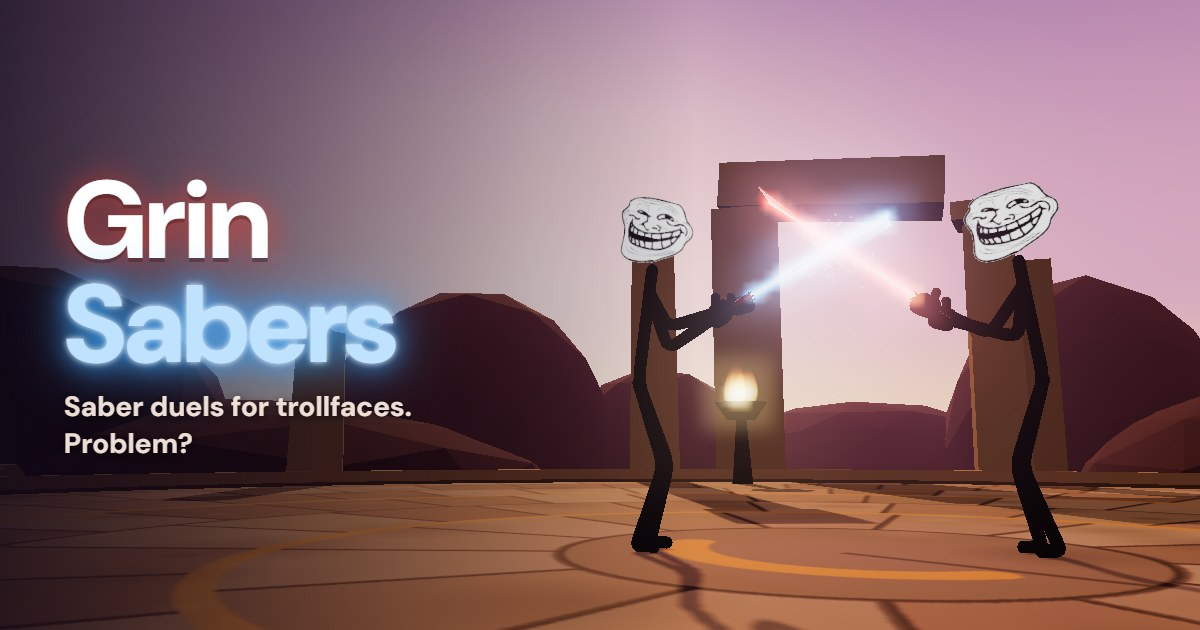
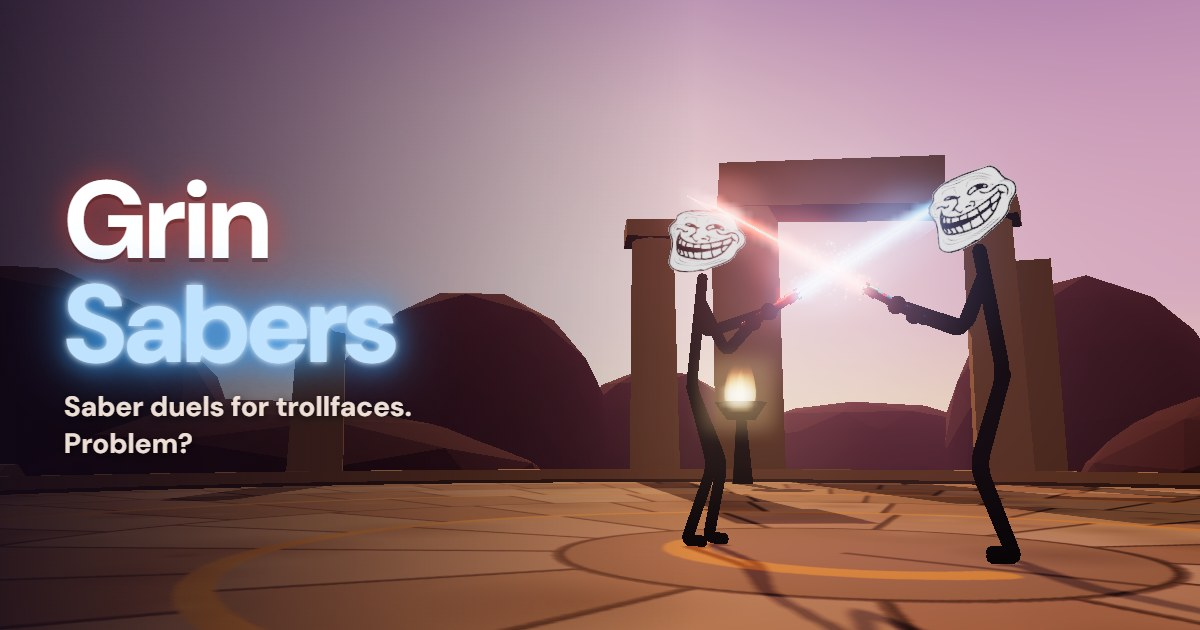
Grin Sabers: hold the saber properly
- Sword fists: round ink fists centred on the hilt, right under the emitter,
  left a fist lower; the rig's flat mitts (made for open hands) hide while a
  saber is held. The blade used to start at the wrist joint, beside the hand.
- Hilt drawn at 1.3x so the steel, emitter and pommel show round two fists.
- Ready stance: both fists in close at the belly on the centre line, blade
  up and forward (was off to the right, arms locked straight out).
- High guard flat over the head; overhead and side windups keep the fists
  above or beside the head, never over the trollface.
- Key art re-rendered with the new grip. Tags -> gs2 (game.js gs3).

Changed region(s): [[0.4933, 0.2413, 1.0, 1.0]]

diff --git a/assets/games/grin-sabers/combat/fighter.js b/assets/games/grin-sabers/combat/fighter.js
@@ -19,15 +19,15 @@ import * as THREE from "three";
 import {
   buildHumanoid, poseHumanoid, reachHand, setHandPose, aimRig, flinchRig,
   gaitPhaseRate, poseDeath, DEATH_TIME,
-} from "../../troll-ops/characters/character.js?v=gs1";
-import { buildSaber, SaberTrail, EMIT_Z } from "../view/saber.js?v=gs1";
-import { FORMS, SWING_BASE } from "./forms.js?v=gs1";
+} from "../../troll-ops/characters/character.js?v=gs2";
+import { buildSaber, SaberTrail, EMIT_Z } from "../view/saber.js?v=gs2";
+import { FORMS, SWING_BASE } from "./forms.js?v=gs2";
 import {
   READY, GUARDS, STAGGER, CLASH, SWINGS, newPose, copyPose, lerpPose, strikePose, smooth, zoneFromAim,
-} from "./swings.js?v=gs1";
+} from "./swings.js?v=gs2";
 
 export const REACH = 1.75;          // chest to chest, the blade can reach about this far
-const HAND_GAP = 0.11;              // right hand to left hand along the hilt
+const HAND_GAP = 0.1;               // right fist to left fist along the hilt
 const BP_REGEN = 14;                // block points a second, standing/walking/guarding
 const DODGE_COST = 12, FEINT_COST = 6;
 const GRAVITY = 13, JUMP_V = 6.2;
@@ -57,6 +57,22 @@ function faceMaterialFlat(lit) {
   if (_flatFace) return _flatFace;
   _flatFace = new THREE.MeshBasicMaterial({ map: lit.map, color: 0xeeeeee, transparent: true, alphaTest: 0.3, side: THREE.DoubleSide });
   return _flatFace;
+}
+
+/* Sword fists. The rig's mitts are flat cut-outs laid along the forearm, made
+   for open hands and gestures; they can't close round a handle. While a
+   saber is held they hide and these take over: round ink fists centred ON
+   the hilt (the arm's line ends inside them), the right under the emitter,
+   the left a fist lower, so the steel shows between and round them. */
+const FIST_GEO = new THREE.SphereGeometry(1, 18, 14);
+const FIST_MAT = new THREE.MeshBasicMaterial({ color: 0x050505 });
+function makeFist(scene) {
+  const m = new THREE.Mesh(FIST_GEO, FIST_MAT);
+  m.scale.set(0.05, 0.047, 0.043);   // wide across the hilt, short along it
+  m.castShadow = true;
+  m.visible = false;
+  scene.add(m);
+  return m;
 }
 
 function nameTag(text, colour) {
@@ -98,6 +114,7 @@ export class Fighter {
     this.saber = buildSaber(colour, { light });
     scene.add(this.saber.group);
     this.trail = new SaberTrail(scene, colour);
+    this.fists = [makeFist(scene), makeFist(scene)];
 
     this.pos = new THREE.Vector3();
     this.vel = new THREE.Vector3();
@@ -441,6 +458,7 @@ export class Fighter {
     rig.root.position.copy(this.pos);
 
     if (this.state === "ko") {
+      this.showSwordFists(false);
       poseDeath(rig, Math.min(1, this.koT / DEATH_TIME));
       this.placeSaberOnBody(dt, now, false);
       this.tag.visible = false;
@@ -479,11 +497,11 @@ export class Fighter {
       _w.copy(g).addScaledVector(d, -HAND_GAP);
       _pole.copy(POLE_L);
       reachHand(rig, -1, _w, _pole);
-      setHandPose(rig, 1, "fist");
-      setHandPose(rig, -1, "fist");
+      this.showSwordFists(true);
       rig.body.update();
       this.placeSaberInHands();
     } else {
+      this.showSwordFists(false);
       setHandPose(rig, 1, "open");
       setHandPose(rig, -1, "open");
       rig.body.update();
@@ -502,13 +520,25 @@ export class Fighter {
     this.saber.update(dt, now);
   }
 
-  /* The saber group at the right fist, blade along the pose's direction. */
+  showSwordFists(on) {
+    const h = this.rig.hands;
+    h.R.group.visible = h.L.group.visible = !on;
+    this.fists[0].visible = this.fists[1].visible = on;
+  }
+
+  /* The saber group at the right fist, blade along the pose's direction,
+     and both sword fists on the hilt. */
   placeSaberInHands() {
     const p = this.rig.parts, sg = this.saber.group;
     p.wristR.getWorldPosition(sg.position);
     p.chest.getWorldQuaternion(_q);
     _v.copy(this.pose.d).applyQuaternion(_q);
     sg.quaternion.setFromUnitVectors(_fwd, _v);
+    const [fr, fl] = this.fists;
+    fr.position.copy(sg.position);
+    fl.position.copy(sg.position).addScaledVector(_v, -HAND_GAP);
+    fr.quaternion.copy(sg.quaternion);
+    fl.quaternion.copy(sg.quaternion);
   }
 
   /* Down or dropped: the hilt follows the body or lies where it landed. */
@@ -546,6 +576,6 @@ export class Fighter {
   }
 
   dispose() {
-    this.scene.remove(this.rig.root, this.saber.group, this.trail.mesh, this.tag);
+    this.scene.remove(this.rig.root, this.saber.group, this.trail.mesh, this.tag, ...this.fists);
   }
 }

diff --git a/grin-sabers.html b/grin-sabers.html
@@ -10,17 +10,17 @@
   <meta property="og:description" content="Saber duels for trollfaces. Read the swing, block it, bonk them. Problem?">
   <meta property="og:type" content="website">
   <meta property="og:url" content="https://trollrunner.net/grin-sabers">
-  <meta property="og:image" content="https://trollrunner.net/assets/games/grin-sabers/ui/grin-sabers-banner.jpg?v=gs1">
+  <meta property="og:image" content="https://trollrunner.net/assets/games/grin-sabers/ui/grin-sabers-banner.jpg?v=gs2">
   <meta property="og:image:width" content="1200">
   <meta property="og:image:height" content="630">
   <meta property="og:image:alt" content="Grin Sabers: two trollfaces lock blue and red sabers under a temple arch at sunset">
   <meta name="twitter:card" content="summary_large_image">
   <meta name="twitter:title" content="Grin Sabers | Troll Runner Arcade">
   <meta name="twitter:description" content="Saber duels for trollfaces. Problem?">
-  <meta name="twitter:image" content="https://trollrunner.net/assets/games/grin-sabers/ui/grin-sabers-banner.jpg?v=gs1">
+  <meta name="twitter:image" content="https://trollrunner.net/assets/games/grin-sabers/ui/grin-sabers-banner.jpg?v=gs2">
   <title>Grin Sabers | Troll Runner Arcade</title>
   <link rel="icon" type="image/png" href="assets/images/wallpaper/trollface%20transparent.png">
-  <link rel="preload" as="image" href="assets/games/grin-sabers/ui/grin-sabers-poster.jpg?v=gs1">
+  <link rel="preload" as="image" href="assets/games/grin-sabers/ui/grin-sabers-poster.jpg?v=gs2">
   <link rel="preconnect" href="https://fonts.googleapis.com">
   <link rel="preconnect" href="https://fonts.gstatic.com" crossorigin>
   <link href="https://fonts.googleapis.com/css2?family=DM+Sans:opsz,wght@9..40,500;9..40,700;9..40,800&family=DM+Mono:wght@500&display=swap" rel="stylesheet">
@@ -147,7 +147,7 @@
 
   <!-- Loading screen: the poster until the first key, click or tap (game.js). -->
   <button type="button" class="gs-loading" id="gs-loading" aria-label="Grin Sabers. Press any key or tap to play">
-    <img src="assets/games/grin-sabers/ui/grin-sabers-poster.jpg?v=gs1" alt="" width="1200" height="1700">
+    <img src="assets/games/grin-sabers/ui/grin-sabers-poster.jpg?v=gs2" alt="" width="1200" height="1700">
     <span class="gs-cta" aria-hidden="true"><span class="gs-cta-loading">Igniting&hellip;</span><span class="gs-cta-key">Press any key</span><span class="gs-cta-tap">Tap to play</span></span>
   </button>
 
@@ -159,6 +159,6 @@
       }
     }
   </script>
-  <script type="module" src="assets/games/grin-sabers/game.js?v=gs2"></script>
+  <script type="module" src="assets/games/grin-sabers/game.js?v=gs3"></script>
 </body>
 </html>

diff --git a/assets/games/grin-sabers/combat/swings.js b/assets/games/grin-sabers/combat/swings.js
@@ -19,20 +19,23 @@ const P = (g, d, twist = 0, lean = 0) => ({ g: new THREE.Vector3(...g), d: new T
 export const SWING_DIRS = ["R", "L", "O", "T"];
 
 export const SWINGS = {
-  R: [P([0.30, 0.10, -0.10], [0.55, 0.55, 0.62], -0.6, -0.05), P([0.02, -0.10, -0.47], [-0.18, 0.22, -0.95], 0.1, 0.12), P([-0.26, -0.22, -0.30], [-0.85, -0.2, -0.45], 0.6, 0.1)],
-  L: [P([-0.22, 0.06, -0.18], [-0.6, 0.55, 0.55], 0.55, -0.05), P([0.06, -0.10, -0.47], [0.18, 0.22, -0.95], -0.1, 0.12), P([0.30, -0.20, -0.28], [0.85, -0.15, -0.45], -0.55, 0.1)],
-  O: [P([0.06, 0.28, -0.06], [0.05, 0.6, 0.8], -0.15, -0.18), P([0.04, 0.0, -0.48], [0, 0.35, -0.94], 0, 0.18), P([0.02, -0.32, -0.38], [0, -0.75, -0.65], 0, 0.32)],
+  // Windups keep the fists beside or above the head, never over the face.
+  R: [P([0.34, 0.12, 0.0], [0.55, 0.55, 0.62], -0.6, -0.05), P([0.02, -0.10, -0.47], [-0.18, 0.22, -0.95], 0.1, 0.12), P([-0.26, -0.22, -0.30], [-0.85, -0.2, -0.45], 0.6, 0.1)],
+  L: [P([-0.34, 0.08, -0.06], [-0.6, 0.55, 0.55], 0.55, -0.05), P([0.06, -0.10, -0.47], [0.18, 0.22, -0.95], -0.1, 0.12), P([0.30, -0.20, -0.28], [0.85, -0.15, -0.45], -0.55, 0.1)],
+  O: [P([0.06, 0.6, 0.04], [0.05, 0.45, 0.89], -0.15, -0.18), P([0.04, 0.0, -0.48], [0, 0.35, -0.94], 0, 0.18), P([0.02, -0.32, -0.38], [0, -0.75, -0.65], 0, 0.32)],
   T: [P([0.18, -0.18, -0.02], [0.05, 0.08, -1], -0.45, -0.05), P([0.06, -0.10, -0.58], [0, 0.04, -1], 0.1, 0.22), P([0.04, -0.10, -0.62], [0, 0.02, -1], 0.15, 0.26)],
 };
 
-export const READY = P([0.14, -0.26, -0.32], [-0.45, 0.8, -0.4]);
+// The ready stance: both fists in close in front of the belly, on the
+// centre line, blade up and forward at the opponent's face.
+export const READY = P([0.04, -0.42, -0.26], [-0.05, 0.72, -0.69]);
 
 /* Guard poses, by the side the swing ARRIVES on in the defender's view. */
 export const GUARD_ZONES = ["left", "right", "high", "mid"];
 export const GUARDS = {
   left: P([-0.16, -0.08, -0.36], [0.12, 0.97, -0.2], 0.3),
   right: P([0.26, -0.08, -0.36], [-0.1, 0.97, -0.2], -0.3),
-  high: P([0.1, 0.16, -0.3], [-0.97, 0.15, -0.18], 0, -0.05),
+  high: P([0.2, 0.46, -0.2], [-0.97, 0.08, -0.22], 0, -0.05),   // flat over the head, the face left clear
   mid: P([0.06, -0.18, -0.44], [-0.62, 0.62, -0.48], 0, 0.05),
 };
 

diff --git a/assets/games/grin-sabers/game.js b/assets/games/grin-sabers/game.js
@@ -5,15 +5,15 @@
 // ?debug exposes window.__gs for the headless tests (tools/grin-sabers-*.mjs).
 
 import * as THREE from "three";
-import { createView, DuelCamera } from "./view/scene.js?v=gs1";
-import { Sparks, BLADE_COLOURS } from "./view/saber.js?v=gs1";
-import { buildCourtyard } from "./arenas/courtyard.js?v=gs1";
-import { Duel, ROUNDS_TO_WIN } from "./modes/duel.js?v=gs1";
-import { TIERS } from "./bots/duel-bot.js?v=gs1";
-import { Input } from "./input/input.js?v=gs1";
-import { Hud } from "./ui/hud.js?v=gs1";
-import { sfx, Hum, unlockAudio, isMuted, setMuted } from "./sound/sfx.js?v=gs1";
-import { flinchRigFrom } from "../troll-ops/characters/character.js?v=gs1";
+import { createView, DuelCamera } from "./view/scene.js?v=gs2";
+import { Sparks, BLADE_COLOURS } from "./view/saber.js?v=gs2";
+import { buildCourtyard } from "./arenas/courtyard.js?v=gs2";
+import { Duel, ROUNDS_TO_WIN } from "./modes/duel.js?v=gs2";
+import { TIERS } from "./bots/duel-bot.js?v=gs2";
+import { Input } from "./input/input.js?v=gs2";
+import { Hud } from "./ui/hud.js?v=gs2";
+import { sfx, Hum, unlockAudio, isMuted, setMuted } from "./sound/sfx.js?v=gs2";
+import { flinchRigFrom } from "../troll-ops/characters/character.js?v=gs2";
 
 const $ = (id) => document.getElementById(id);
 const canvas = $("gs-canvas");

diff --git a/assets/games/grin-sabers/view/saber.js b/assets/games/grin-sabers/view/saber.js
@@ -12,7 +12,10 @@
 import * as THREE from "three";
 
 export const BLADE_LEN = 0.9;
-export const EMIT_Z = -0.13;
+// The hilt is drawn at cartoon scale (HILT_SCALE): the trollfaces' fists are
+// big, and a real-size hilt vanished inside two of them.
+const HILT_SCALE = 1.3;
+export const EMIT_Z = -0.135 * HILT_SCALE;
 const IGNITE_TIME = 0.34;
 const RETRACT_TIME = 0.2;
 const BEAM_HALF = 0.075;
@@ -164,7 +167,9 @@ function buildHilt() {
 export function buildSaber(colourHex = "#3fa9ff", { light = null } = {}) {
   const color = new THREE.Color(colourHex);
   const group = new THREE.Group();
-  group.add(buildHilt());
+  const hilt = buildHilt();
+  hilt.scale.setScalar(HILT_SCALE);
+  group.add(hilt);
 
   const beamMat = new THREE.ShaderMaterial({
     uniforms: {

diff --git a/assets/games/grin-sabers/modes/duel.js b/assets/games/grin-sabers/modes/duel.js
@@ -4,9 +4,9 @@
 // title screen and, later, spectators). The duel runs the round flow and the
 // contact checks; everything it wants seen or heard goes out as events.
 
-import { Fighter } from "../combat/fighter.js?v=gs1";
-import { resolveFrame, updateClash } from "../combat/resolve.js?v=gs1";
-import { DuelBot, TIERS } from "../bots/duel-bot.js?v=gs1";
+import { Fighter } from "../combat/fighter.js?v=gs2";
+import { resolveFrame, updateClash } from "../combat/resolve.js?v=gs2";
+import { DuelBot, TIERS } from "../bots/duel-bot.js?v=gs2";
 
 export const ROUNDS_TO_WIN = 2;
 export const ROUND_TIME = 90;

diff --git a/assets/games/grin-sabers/bots/duel-bot.js b/assets/games/grin-sabers/bots/duel-bot.js
@@ -6,8 +6,8 @@
 // wrong guess. Better tiers chain combos, feint, counter after a perfect
 // block, try disarms and mash harder in a clash.
 
-import { blankIntent, REACH } from "../combat/fighter.js?v=gs1";
-import { zoneFor } from "../combat/swings.js?v=gs1";
+import { blankIntent, REACH } from "../combat/fighter.js?v=gs2";
+import { zoneFor } from "../combat/swings.js?v=gs2";
 
 export const TIERS = [
   { name: "Noob",       colour: "#3dff6e", react: 0.42, read: 0.3,  combo: 1, heavy: 0.08, feint: 0,    counter: 0.1, disarm: 0,    dodge: 0.02, mash: 4,  aggro: 0.45 },

diff --git a/assets/games/grin-sabers/combat/resolve.js b/assets/games/grin-sabers/combat/resolve.js
@@ -10,8 +10,8 @@
 // blade, for clashes).
 
 import * as THREE from "three";
-import { HEAVY_MULT, blockCost } from "./forms.js?v=gs1";
-import { zoneFor } from "./swings.js?v=gs1";
+import { HEAVY_MULT, blockCost } from "./forms.js?v=gs2";
+import { zoneFor } from "./swings.js?v=gs2";
 
 const BODY_R = 0.27, BODY_Y0 = 0.25, BODY_Y1 = 1.72;
 const CLASH_TIME = 1.5;

diff --git a/assets/games/grin-sabers/ui/hud.js b/assets/games/grin-sabers/ui/hud.js
@@ -3,7 +3,7 @@
 // from, white = where you aim), callouts and banners.
 
 import * as THREE from "three";
-import { zoneFor, zoneFromAim } from "../combat/swings.js?v=gs1";
+import { zoneFor, zoneFromAim } from "../combat/swings.js?v=gs2";
 
 const $ = (id) => document.getElementById(id);
 const _p = new THREE.Vector3();

diff --git a/assets/games/grin-sabers/HANDOFF.md b/assets/games/grin-sabers/HANDOFF.md
@@ -20,3 +20,5 @@ combat/ (fighter, swings, forms, resolve) · bots/ · modes/duel.js · view/ (sc
   block, disarm, feint, clash, combos, heavy, dodge, jump; temple courtyard; demo title.
 - 2026-10-16 key art: poster (loading screen) + banner (OG, future arcade card), rendered
   from the game by `node tools/grin-sabers-poster.mjs`.
+- 2026-10-16 grip: sword fists on the hilt (the rig mitts hide while armed), hilt drawn
+  1.3x, centred ready stance, high guard over the head, windups clear of the face (-gs2).
